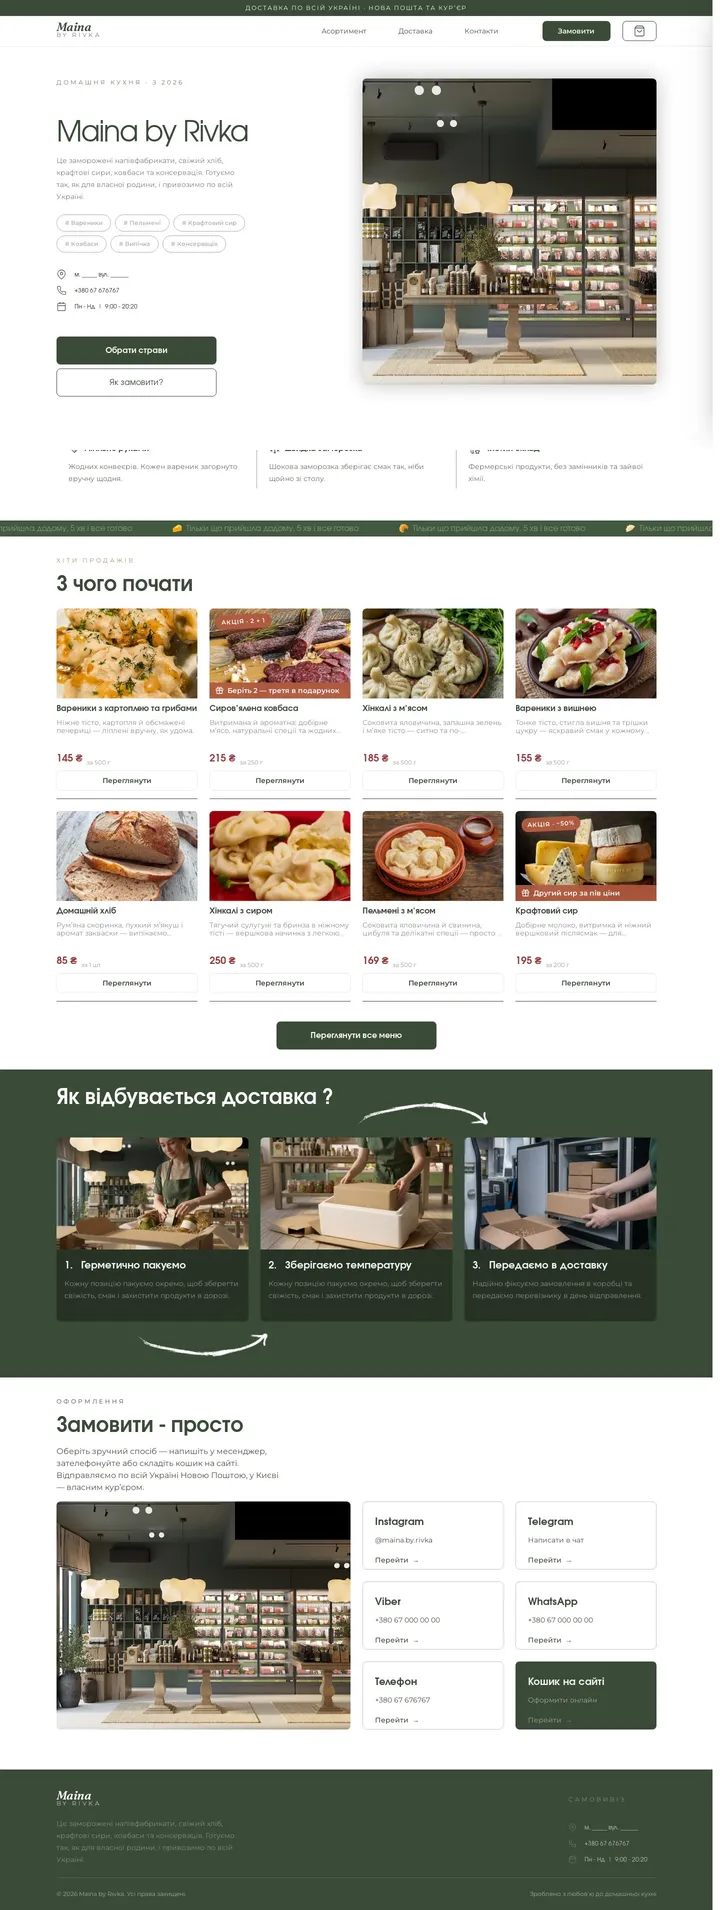
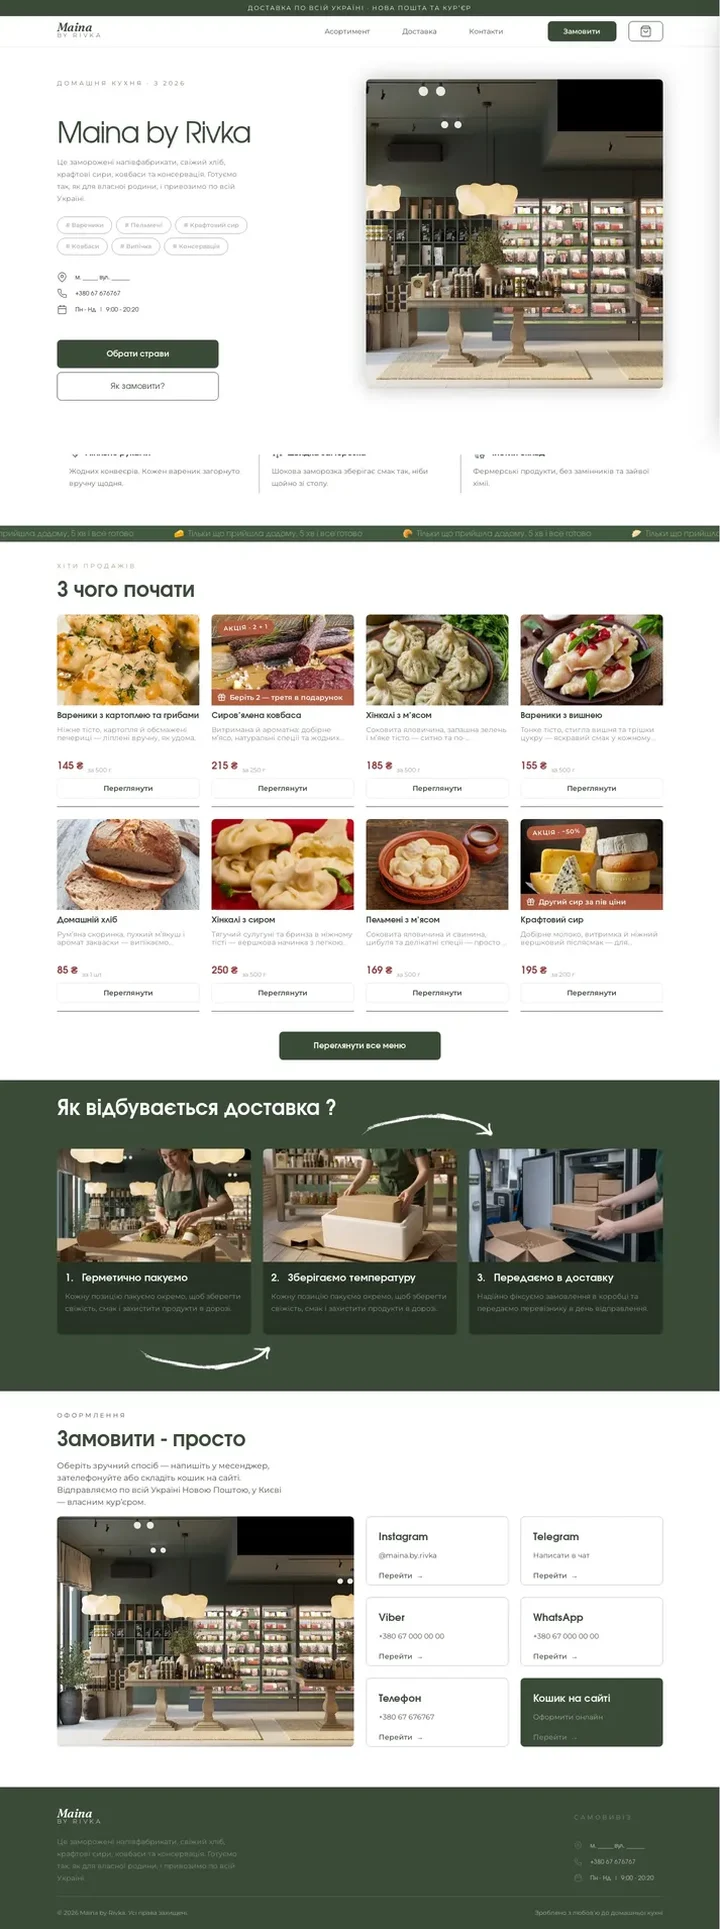
Maina screenshot: crop the white strip at the right edge
Claude-Session: https://claude.ai/code/session_018VTy2AM8Jaz3sxv2iqmmY5

diff --git a/lib/content.ts b/lib/content.ts
@@ -117,7 +117,7 @@ export const WORK = {
       tags: ["Дизайн", "Next.js", "Sanity"],
       media: "/cases/maina.webp",
       shots: ["/cases/maina.webp"],
-      full: { src: "/cases/maina-full.webp", w: 720, h: 1910 },
+      full: { src: "/cases/maina-full.webp", w: 720, h: 1929 },
       url: null,
       status: "Живий проєкт",
       result: "[РЕЗУЛЬТАТ]",

diff --git a/lib/content.en.ts b/lib/content.en.ts
@@ -75,7 +75,7 @@ export const en: Content = {
         tags: ["Design", "Next.js", "Sanity"],
         media: "/cases/maina.webp",
         shots: ["/cases/maina.webp"],
-        full: { src: "/cases/maina-full.webp", w: 720, h: 1910 },
+        full: { src: "/cases/maina-full.webp", w: 720, h: 1929 },
         url: null,
         status: "Live project",
         result: "[RESULT]",
